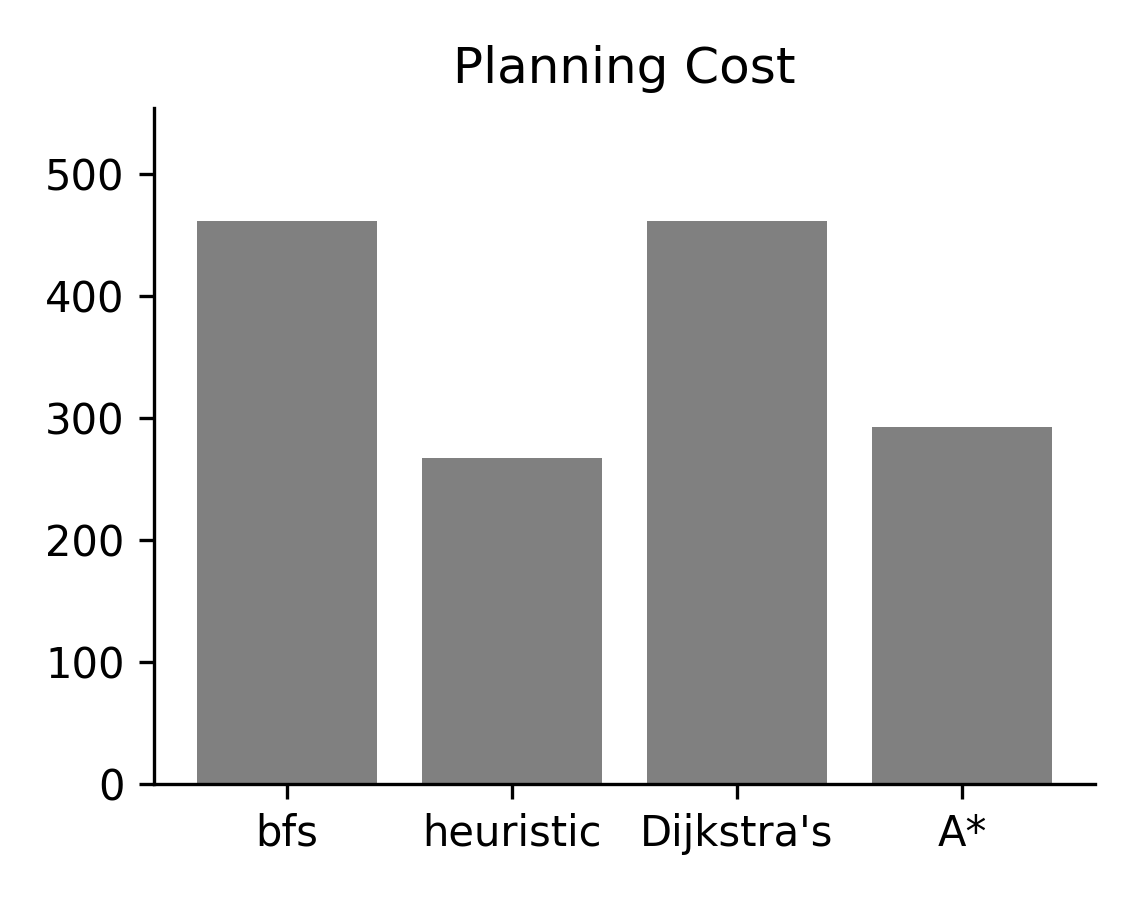
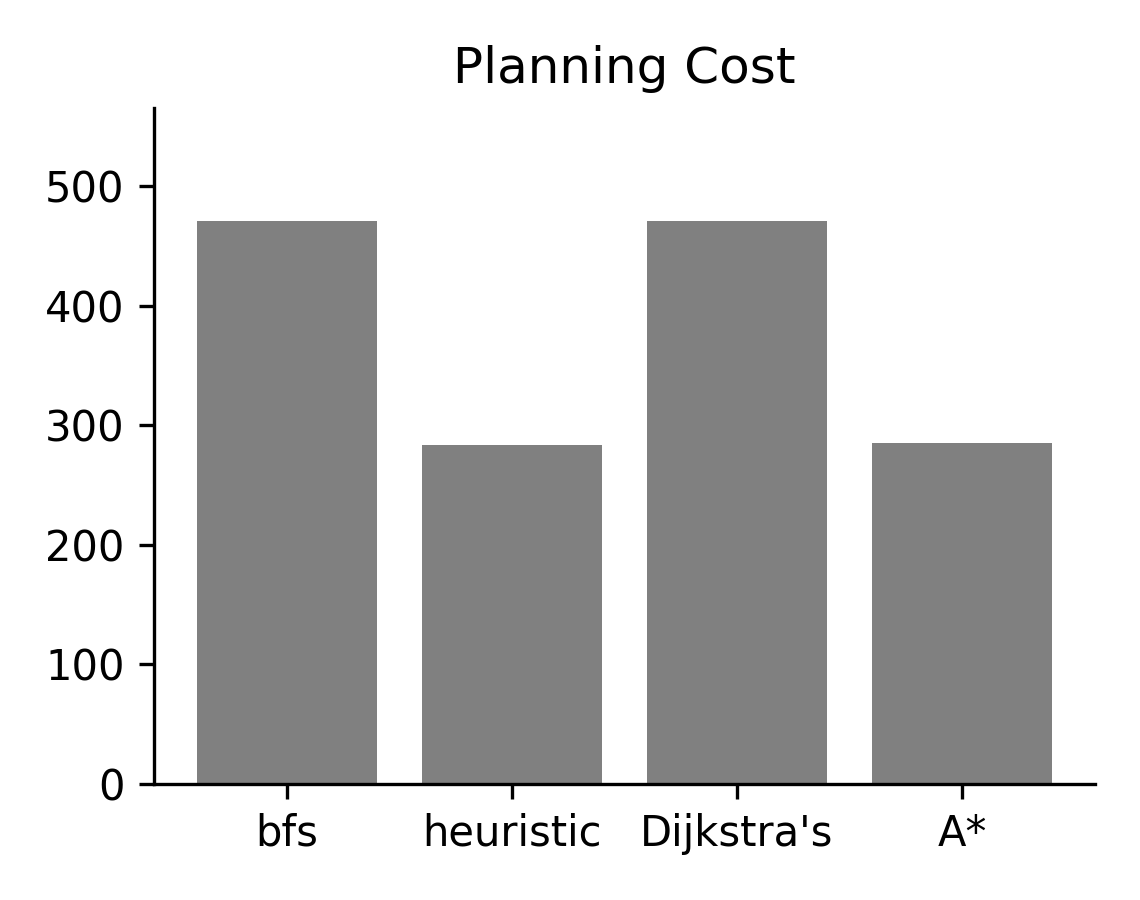
Add updated graph

diff --git a/graph_search/maze_analysis.py b/graph_search/maze_analysis.py
@@ -10,11 +10,10 @@ from functools import partial
 import networkx as nx
 import numpy as np
 import gym
-import ge_world
 from params_proto import proto_partial
 from params_proto.neo_proto import ParamsProto
 
-from graph_search import bfs, heuristic_search, dijkstra, a_star
+from graph_search import methods, short_names
 
 
 class Args(ParamsProto):
@@ -27,9 +26,6 @@ class Args(ParamsProto):
 
     h_scale = 3
 
-    # plotting
-    visualize_graph = True
-
 
 def d(xy, xy_):
     return np.linalg.norm(xy - xy_, ord=2)
@@ -37,7 +33,8 @@ def d(xy, xy_):
 
 # @proto_partial(Args)
 def sample_trajs(seed, env_id=Args.env_id):
-    import matplotlib.pyplot as plt
+    from ge_world import IS_PATCHED
+    assert IS_PATCHED, "required for these envs."
 
     np.random.seed(seed)
     env = gym.make(env_id)
@@ -52,15 +49,16 @@ def sample_trajs(seed, env_id=Args.env_id):
             obs, reward, done, info = env.step(np.random.randint(low=0, high=7))
             path.append(obs['x'])
     trajs = np.array(trajs)
+    from ml_logger import logger
+    logger.print(f'seed {seed} has finished sampling.', color="green")
+    return trajs
+
     # fig = plt.figure(figsize=(3, 3))
     # for path in trajs:
     #     plt.plot(*zip(*path), color="gray")
     # plt.gca().set_aspect('equal')
     # plt.tight_layout()
     # plt.show()
-    from ml_logger import logger
-    logger.print(f'seed {seed} has finished sampling.', color="green")
-    return trajs
 
 
 def plot_graph(graph):
@@ -135,7 +133,7 @@ def patch_graph(G):
 
 if __name__ == '__main__':
     from collections import defaultdict
-    from waterbear import DefaultBear, Bear
+    from waterbear import DefaultBear
     import matplotlib.pyplot as plt
     from multiprocessing.pool import Pool
     from ml_logger import logger
@@ -152,53 +150,22 @@ if __name__ == '__main__':
 
     fig = plt.figure(figsize=(4, 4), dpi=300)
 
-    path = bfs(G, start, goal)
-    cache.cost['bfs'] = len(queries.keys())
-    cache.len['bfs'] = len(path)
-    print(f"       bfs len: {len(path)}", *path)
-    print(f"# of queries {len(queries.keys())}")
-    plt.subplot(2, 2, 1)
-    plt.title(f'Breath-first')
-    # plot_graph(G)
-    plot_trajectory_2d(ind2pos(G, path, 100), label="bfs")
-    plt.scatter(*zip(*ind2pos(G, queries.keys(), 100)), color="gray", s=3, alpha=0.6)
-    set_fig()
+    for i, (key, search) in enumerate(methods.items()):
+        queries.clear()
+        name = search.__name__
+        title, *_ = search.__doc__.split('\n')
+        short_name = short_names[key]
 
-    queries.clear()
-    path = heuristic_search(G, start, goal, partial(heuristic, G=G))
-    cache.cost.update(heuristic=len(queries.keys()))
-    cache.len['heuristic'] = len(path)
-    print(f"heuristics len: {len(path)}", *path)
-    plt.subplot(2, 2, 2)
-    plt.title('Heuristic')
-    # plot_graph(G)
-    plot_trajectory_2d(ind2pos(G, path, 100), label="heuristics")
-    plt.scatter(*zip(*ind2pos(G, queries.keys(), 100)), color="gray", s=3, alpha=0.6)
-    set_fig()
-
-    queries.clear()
-    path = dijkstra(G, start, goal)
-    cache.cost["Dijkstra's"] = len(queries.keys())
-    cache.len["Dijstra's"] = len(path)
-    print(f"  dijkstra len: {len(path)}", *path)
-    plt.subplot(2, 2, 3)
-    plt.title(f"Dijkstra's")
-    # plot_graph(G)
-    plot_trajectory_2d(ind2pos(G, path, 100), label="dijkstra")
-    plt.scatter(*zip(*ind2pos(G, queries.keys(), 100)), color="gray", s=3, alpha=0.6)
-    set_fig()
-
-    queries.clear()
-    path = a_star(G, start, goal, partial(heuristic, G=G, scale=Args.h_scale))
-    cache.cost["A*"] = len(queries.keys())
-    cache.len["A*"] = len(path)
-    print(f"        a* len: {len(path)}", *path)
-    plt.subplot(2, 2, 4)
-    plt.title('A*')
-    # plot_graph(G)
-    plot_trajectory_2d(ind2pos(G, path, 100), label="A*")
-    plt.scatter(*zip(*ind2pos(G, queries.keys(), 100)), color="gray", s=3, alpha=0.6)
-    set_fig()
+        path, ds = search(G, start, goal, partial(heuristic, G=G, scale=Args.h_scale))
+        cache.cost[short_name] = len(queries.keys())
+        cache.len[short_name] = sum(ds)
+        print(f"{key:>10} len: {len(path)}", f"cost: {len(queries.keys())}")
+        plt.subplot(2, 2, i + 1)
+        plt.title(title)
+        # plot_graph(G)
+        plot_trajectory_2d(ind2pos(G, path, 100), label=short_name)
+        plt.scatter(*zip(*ind2pos(G, queries.keys(), 100)), color="gray", s=3, alpha=0.6)
+        set_fig()
 
     # plt.legend(loc="upper left", bbox_to_anchor=(0.45, 0.8), framealpha=1, frameon=False, fontsize=12)
     plt.tight_layout()
@@ -207,9 +174,6 @@ if __name__ == '__main__':
     plt.close()
 
     # colors = ['#49b8ff', '#ff7575', '#66c56c', '#f4b247']
-    # for i, (k, v) in enumerate(cache.items()):
-    #     plt.bar(k, v, color=colors[i])
-
     fig = plt.figure(figsize=(3.8, 3), dpi=300)
     plt.title('Planning Cost')
     plt.bar(cache.cost.keys(), cache.cost.values(), color="gray", width=0.8)
@@ -229,7 +193,7 @@ if __name__ == '__main__':
     plt.gca().spines['right'].set_visible(False)
     plt.tight_layout()
     logger.savefig("../figures/maze_length.png", dpi=300)
-    plt.ylabel('# of Steps')
+    plt.ylabel('Path Length')
     plt.show()
 
     logger.print('done', color="green")

diff --git a/graph_search/streetlearn_analysis.py b/graph_search/streetlearn_analysis.py
@@ -6,15 +6,12 @@ import gym
 from params_proto import proto_partial
 from params_proto.neo_proto import ParamsProto
 
-from graph_search import bfs, heuristic_search, dijkstra, a_star
+from graph_search import methods, short_names
 from streetlearn import StreetLearnDataset
 
 
 class Args(ParamsProto):
     env_id = "streetlearn_small"
-    n_envs = 10
-    n_rollout = 50
-    n_timesteps = 1
     neighbor_r = 2.4e-4
     neighbor_r_min = None
 
@@ -44,7 +41,7 @@ def load_streetlearn(data_path="~/fair/streetlearn/processed-data/manhattan-larg
                 edgecolor="none", facecolor='red', label="end")
     plt.legend(loc="upper left", bbox_to_anchor=(0.95, 0.7), framealpha=1,
                frameon=False, fontsize=12)
-    d.show_blowout("NYC-large", fig=fig, box_color='gray', box_alpha=0.3,
+    d.show_blowout("NYC-large", fig=fig, box_color='gray', box_alpha=0.1,
                    show=True, set_lim=True)
 
     return d, start, goal
@@ -72,10 +69,8 @@ def maze_graph(dataset: StreetLearnDataset):
     for node, xy in enumerate(tqdm(all_nodes, desc="build graph")):
         graph.add_node(node, pos=xy)
 
-    data = []
     for node, a in tqdm(graph.nodes.items(), desc="add edges"):
         (ll,), (ds,), (ns,) = dataset.neighbor([node], r=Args.neighbor_r)
-        data.extend(ds)
         for neighbor, d in zip(ns, ds):
             graph.add_edge(node, neighbor, weight=d)
 
@@ -140,17 +135,22 @@ if __name__ == '__main__':
 
     fig = plt.figure(figsize=(4, 4), dpi=300)
 
-    path = bfs(G, start, goal)
-    cache.cost['bfs'] = len(queries.keys())
-    cache.len['bfs'] = len(path)
-    print(f"       bfs len: {len(path)}", *path)
-    print(f"# of queries {len(queries.keys())}")
-    plt.subplot(2, 2, 1)
-    plt.title(f'Breath-first')
-    # plot_graph(G)
-    plot_trajectory_2d(ind2pos(G, path, 100), label="bfs")
-    plt.scatter(*zip(*ind2pos(G, queries.keys(), 100)), color="gray", s=3, alpha=0.6)
-    set_fig(dataset)
+    for i, (key, search) in enumerate(methods.items()):
+        queries.clear()
+        name = search.__name__
+        title, *_ = search.__doc__.split('\n')
+        short_name = short_names[key]
+
+        path, ds = search(G, start, goal, partial(heuristic, G=G, scale=1.2))
+        cache.cost[short_name] = len(queries.keys())
+        cache.len[short_name] = len(ds)
+        print(f"{key:>10} len: {len(path)}", f"cost: {len(queries.keys())}")
+        plt.subplot(2, 2, i + 1)
+        plt.title(title)
+        # plot_graph(G)
+        plot_trajectory_2d(ind2pos(G, path, 100), label=short_name)
+        plt.scatter(*zip(*ind2pos(G, queries.keys(), 100)), color="gray", s=3, alpha=0.1)
+        set_fig(dataset)
 
     queries.clear()
     path = heuristic_search(G, start, goal, partial(heuristic, G=G))
@@ -217,7 +217,7 @@ if __name__ == '__main__':
     plt.gca().spines['right'].set_visible(False)
     plt.tight_layout()
     logger.savefig("../figures/streetlearn_length.png", dpi=300)
-    plt.ylabel('# of Steps')
+    plt.ylabel('Path Length')
     plt.show()
 
     logger.print('done', color="green")

diff --git a/README.md b/README.md
@@ -2,6 +2,10 @@
 
 A small collection of graph-search algorithms and analysis.
 
+These code are intended to be self-contained single-script program.
+They will get merged and productionized into a single planner core,
+for the plan2vec paper.
+
 ## Constructing and Visualizing the State Graph
 
 use a grid-graph.
